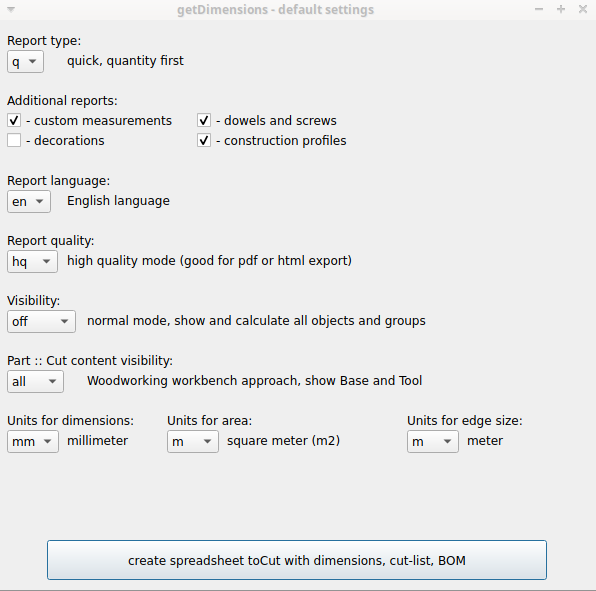
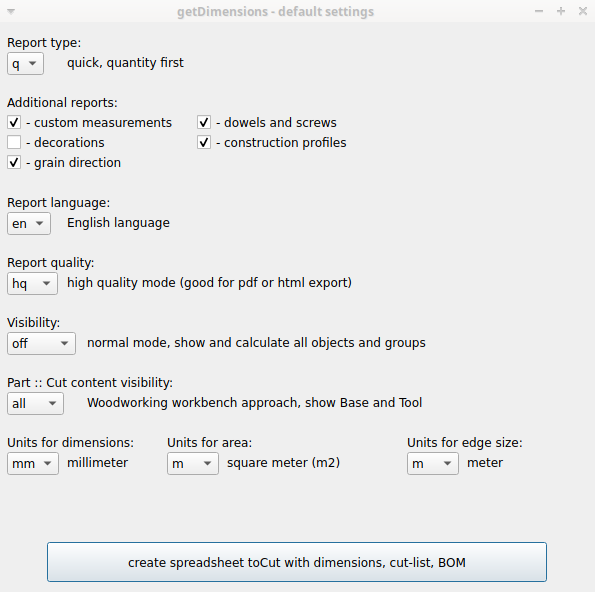
grain direction report

diff --git a/getDimensions.py b/getDimensions.py
@@ -114,6 +114,7 @@ sARME = True      # measurements
 sARM = True       # mounting
 sARP = True       # profiles
 sARD = False      # decoration
+sARGD = True      # grain direction
 
 
 # ###################################################################################################################
@@ -186,6 +187,9 @@ gLang20 = ""
 gLang21 = ""
 gLang22 = ""
 gLang23 = ""
+gLang24 = ""
+gLang25 = ""
+gLang26 = ""
 
 
 # ###################################################################################################################
@@ -333,6 +337,12 @@ def showQtGUI():
 			self.arpCB = QtGui.QCheckBox(translate('getDimensions', '- construction profiles'), self)
 			self.arpCB.setCheckState(QtCore.Qt.Checked)
 			self.arpCB.move(200, vLine + vLineNextRow)
+			
+			vLine = vLine + vLineNextRow
+			
+			self.argdCB = QtGui.QCheckBox(translate('getDimensions', '- grain direction'), self)
+			self.argdCB.setCheckState(QtCore.Qt.Checked)
+			self.argdCB.move(10, vLine + vLineNextRow)
 			
 			# ############################################################################
 			# languages
@@ -642,6 +652,7 @@ def showQtGUI():
 				self.ardCB.hide()
 				self.armCB.hide()
 				self.arpCB.hide()
+				self.argdCB.hide()
 			else:
 				self.ufdL.show()
 				self.ufdO.show()
@@ -660,6 +671,7 @@ def showQtGUI():
 				self.ardCB.show()
 				self.armCB.show()
 				self.arpCB.show()
+				self.argdCB.show()
 
 		def setUFA(self, selectedText):
 			global sUnitsArea
@@ -700,30 +712,9 @@ def showQtGUI():
 		pass
 	
 	if form.result == userOK:
-		global sEColor, sARME
+		global sEColor
+		global sARME, sARM, sARP, sARD, sARGD
 
-
-	
-
-		'''
-		def setARD(self, selectedText):
-			global sARD
-			sARD = selectedText
-
-		def setARM(self, selectedText):
-			global sARM
-			sARM = selectedText
-
-		def setARP(self, selectedText):
-			global sARP
-			sARP = selectedText
-		
-		def setARME(self, selectedText):
-			global sARME
-			sARME = selectedText
-		'''
-		
-		
 		# set edgeband code from text form
 		sEColor = form.ecti.text()
 		
@@ -750,7 +741,13 @@ def showQtGUI():
 			sARD = True
 		else:
 			sARD = False
-			
+
+		# grain direction
+		if form.argdCB.isChecked():
+			sARGD = True
+		else:
+			sARGD = False
+
 		gExecute = "yes"
 
 
@@ -1957,8 +1954,8 @@ def setMeasurementsList(iObj, iCaller="setMeasurementsList"):
 			# add new entry
 			
 			# set name for entry
-			v = "string;" + str(sub)
-			vArrNames.append(sub)
+			v = str(sub)
+			vArrNames.append(v)
 			
 			# set value for entry
 			v = "f;" + str(iObj.Distance.Value)
@@ -1972,6 +1969,52 @@ def setMeasurementsList(iObj, iCaller="setMeasurementsList"):
 		
 		# if there is wrong structure
 		showError(iCaller, iObj, "setMeasurementsList", "wrong structure")
+		return -1
+
+	return 0
+
+
+# ###################################################################################################################
+def setGrainDirection(iObj, iCaller="setGrainDirection"):
+
+	try:
+
+		# init variables
+		vArrNames = []
+		vArrValues = []
+		vType = ""
+
+		if hasattr(iObj, "Grain"):
+
+			faces = iObj.Grain
+
+			i = 1
+			for f in faces:
+			
+				if str(f) != "x":
+					v = "Face" + str(i)
+					vArrNames.append(v)
+					
+					if str(f) == "h":
+						v = "string;" + gLang25
+					if str(f) == "v":
+						v = "string;" + gLang26
+					
+					vArrValues.append(v)
+	
+				i = i + 1
+
+			# set key
+			vType = gLang24 + ", " + str(iObj.Label)
+
+		# set db for additional report
+		if vType != "":
+			setDBAdditional(iObj, vType, vArrNames, vArrValues, "", iCaller)
+
+	except:
+		
+		# if there is wrong structure
+		showError(iCaller, iObj, "setGrainDirection", "wrong structure")
 		return -1
 
 	return 0
@@ -2064,6 +2107,10 @@ def selectFurniturePart(iObj, iCaller="selectFurniturePart"):
 	# additional report - decoration
 	if sARD == True:
 		setDecoration(iObj, iCaller)
+	
+	# additional report - grain direction
+	if sARGD == True:
+		setGrainDirection(iObj, iCaller)
 		
 	# skip not supported furniture parts with no error
 	# Sheet, Transformations will be handling later
@@ -2625,6 +2672,9 @@ def initLang():
 	global gLang21
 	global gLang22
 	global gLang23
+	global gLang24
+	global gLang25
+	global gLang26
 
 	# Polish language
 	if sLang  == "pl":
@@ -2659,6 +2709,9 @@ def initLang():
 		gLang21 = "Długość"
 		gLang22 = "Obszar"
 		gLang23 = "Własne pomiary"
+		gLang24 = "Kierunek słojów"
+		gLang25 = "poziomo"
+		gLang26 = "pionowo"
 
 	# English language
 	else:
@@ -2693,6 +2746,9 @@ def initLang():
 		gLang21 = "Length"
 		gLang22 = "Area"
 		gLang23 = "Custom measurements"
+		gLang24 = "Grain Direction"
+		gLang25 = "horizontal"
+		gLang26 = "vertical"
 
 
 # ###################################################################################################################

diff --git a/Docs/README.md b/Docs/README.md
@@ -21,6 +21,7 @@
 		* [Dowels and Screws](#dowels-and-screws)
 		* [Construction profiles](#construction-profiles)
 		* [Decoration](#decoration)
+		* [Grain Direction](#grain-direction)
 	* [Visibility](#visibility)
 		* [Visibility: off](#visibility-off)
 		* [Visibility: on](#visibility-on)
@@ -367,6 +368,17 @@ ___
 
 	![ARDecoration001](https://raw.githubusercontent.com/dprojects/getDimensions/master/Docs/Screenshots/ARDecoration001.png)
 	![ARDecoration002](https://raw.githubusercontent.com/dprojects/getDimensions/master/Docs/Screenshots/ARDecoration002.png)
+
+___
+### Grain Direction
+**Supported:** `Horizontal`, `Vertical`
+___
+
+
+* With the `Grain Direction` report You can generate report for each face:
+
+	![ARGrain001](https://raw.githubusercontent.com/dprojects/getDimensions/master/Docs/Screenshots/ARGrain001.png)
+	![ARGrain002](https://raw.githubusercontent.com/dprojects/getDimensions/master/Docs/Screenshots/ARGrain002.png)
 
 ___
 ## Visibility
